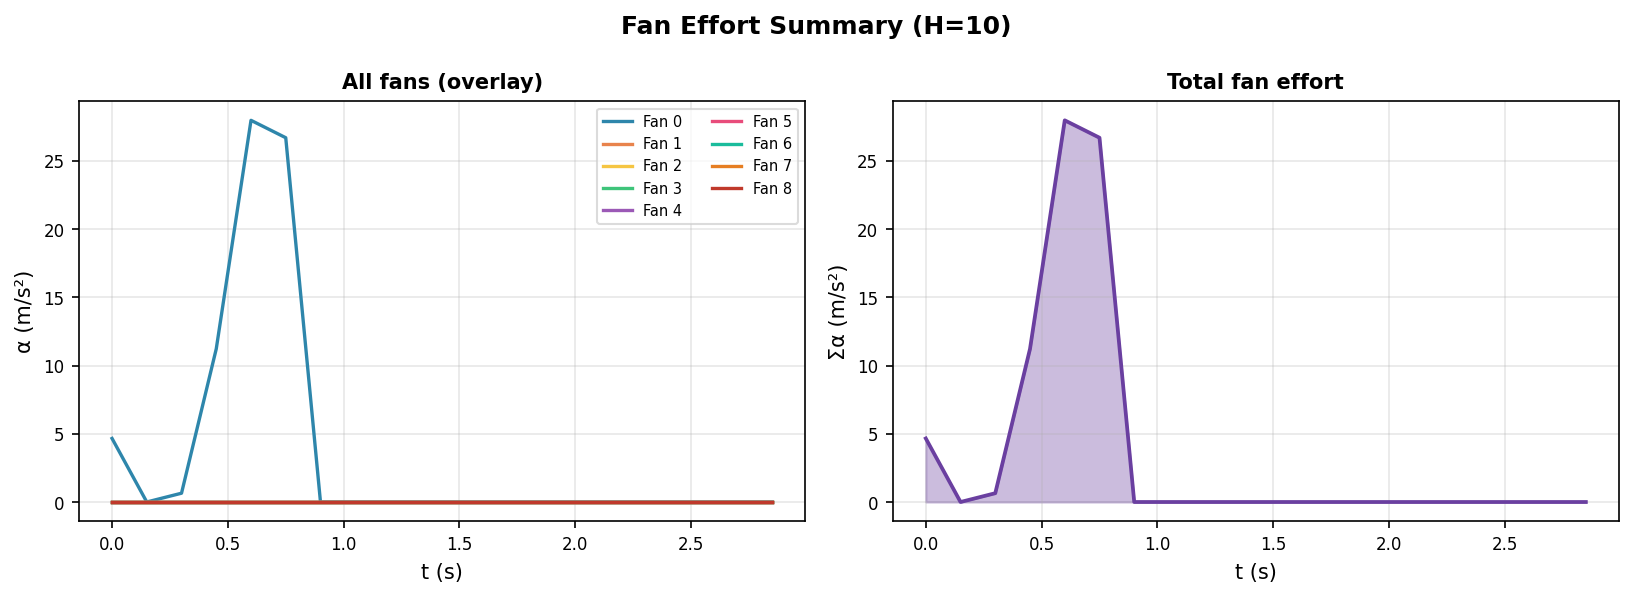
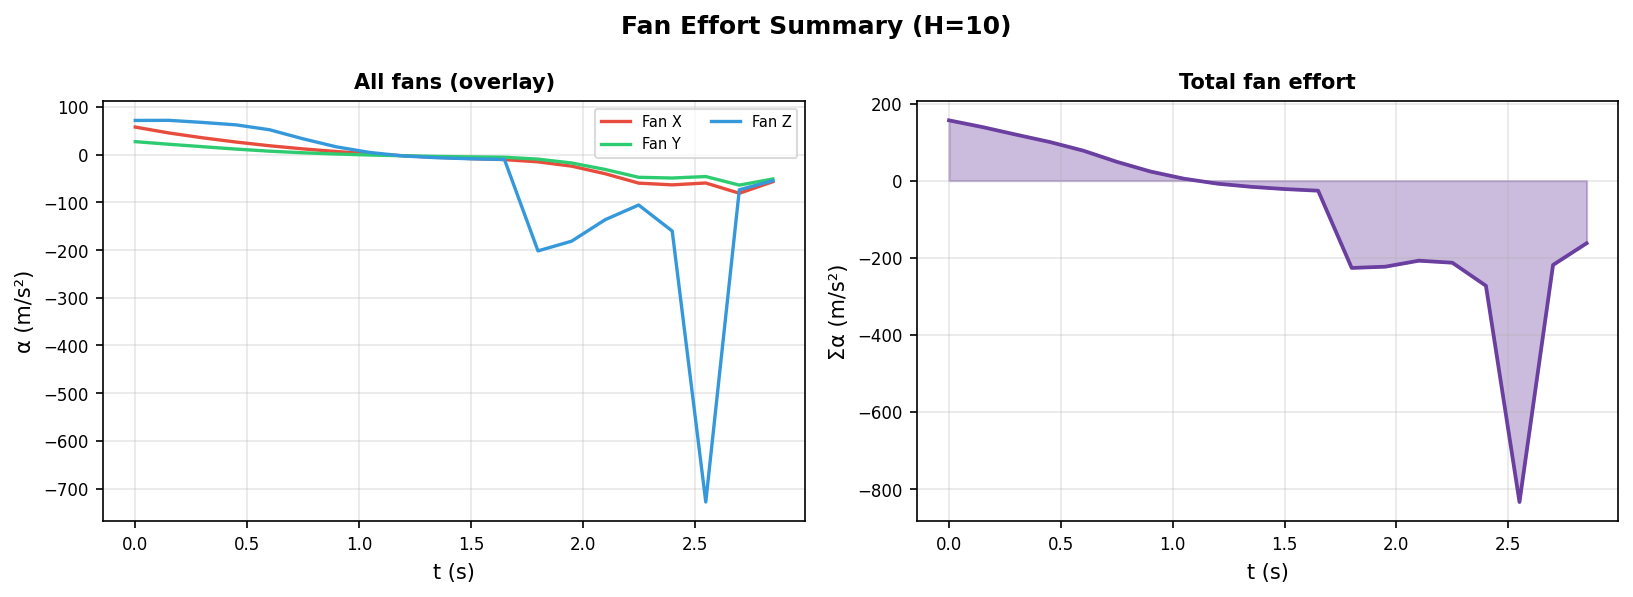
omnidirectional

diff --git a/paper-toss-variation.py b/paper-toss-variation.py
@@ -1,59 +1,40 @@
+import argparse
 import numpy as np
 import cvxpy as cp
+from level import load_level
 from visualization.viz import visualize
 
 ################################################################
-# Problem Parameters
+# CLI
 ################################################################
-
-dt = 0.15
-N  = 21           # total steps (3.0 s)
-H  = 10            # fixed MPC prediction horizon
-g  = np.array([0.0, 0.0, -9.8])
-
-r0     = np.array([0.0,  0.0,  2.0])
-v0     = np.array([3.0,  0.0,  4.5])
-r_goal = np.array([7.0, 10.0,  1.5])
-
-ALPHA_MAX = 80.0
+parser = argparse.ArgumentParser(description='Paper-toss MPC solver')
+parser.add_argument('level', help='Path to a level TOML file (e.g. levels/level1.toml)')
+args = parser.parse_args()
 
 ################################################################
-# Level Design
-# TODO: make a simple DSL for this
+# Load level
 ################################################################
-class Fan:
-    def __init__(self, bounds, direction, color, name):
-        self.bounds    = np.array(bounds, dtype=float)
-        d              = np.array(direction, dtype=float)
-        self.direction = d / np.linalg.norm(d)
-        self.color     = color
-        self.name      = name
+lv = load_level(args.level)
 
-    def contains(self, r):
-        return all(self.bounds[i, 0] <= r[i] <= self.bounds[i, 1] for i in range(3))
+N         = lv.N
+H         = lv.H
+dt        = lv.dt
+ALPHA_MAX = lv.ALPHA_MAX
+r0        = lv.r0
+v0        = lv.v0
+r_goal    = lv.r_goal
+fans      = lv.fans
+N_FANS    = len(fans)
 
-ZL, ZH = -5.0, 15.0
-
-fans = [
-    Fan([[-0.5, 2.5], [-0.5, 3.5], [ZL, ZH]], [ 0.0,  1.0,  1.0], '#2E86AB', 'Fan 0 (+y+z)'),
-    Fan([[ 2.5, 5.0], [-0.5, 3.5], [ZL, ZH]], [ 0.0,  1.0,  0.8], '#E8834C', 'Fan 1 (+y+z)'),
-    Fan([[ 5.0, 8.5], [-0.5, 3.5], [ZL, ZH]], [ 0.0,  1.0,  0.4], '#F5C542', 'Fan 2 (+y+z)'),
-    Fan([[-0.5, 2.5], [ 3.5, 7.0], [ZL, ZH]], [ 0.0,  1.0,  0.4], '#3EC47A', 'Fan 3 (+y+z)'),
-    Fan([[ 2.5, 5.0], [ 3.5, 7.0], [ZL, ZH]], [ 0.0,  1.0,  0.0], '#9B59B6', 'Fan 4 (+y)'),
-    Fan([[ 5.0, 8.5], [ 3.5, 7.0], [ZL, ZH]], [ 0.0,  1.0, -0.5], '#E84C7B', 'Fan 5 (+y−z)'),
-    Fan([[-0.5, 2.5], [ 7.0,11.5], [ZL, ZH]], [ 1.0,  0.5, -0.3], '#1ABC9C', 'Fan 6 (+x+y−z)'),
-    Fan([[ 2.5, 5.0], [ 7.0,11.5], [ZL, ZH]], [ 1.0,  0.2, -1.0], '#E67E22', 'Fan 7 (+x−z)'),
-    Fan([[ 5.0, 8.5], [ 7.0,11.5], [ZL, ZH]], [ 0.0, -0.3, -1.0], '#C0392B', 'Fan 8 (−y−z)'),
-]
-N_FANS = len(fans)
+g = np.array([0.0, 0.0, -9.8])
 
 ################################################################
-# Utils 
+# Utils
 ################################################################
 
-# returns the list of positions for `steps`time steps, representing the path taken via free 
+# returns the list of positions for `steps` time steps, representing the path taken via free
 # flight given the initial position r0 and initial velocity v0
-def simulate_free_flight(r0, v0, steps=N):
+def simulate_free_flight(r0, v0, steps):
     r = np.zeros((steps, 3))
     v = np.zeros((steps, 3))
     r[0], v[0] = r0, v0
@@ -62,13 +43,13 @@ def simulate_free_flight(r0, v0, steps=N):
         v[k+1] = v[k] + g * dt
     return r
 
-r_free = simulate_free_flight(r0, v0)
+r_free = simulate_free_flight(r0, v0, N)
 
 ################################################################
-# Main MPC Loop 
+# Main MPC Loop
 ################################################################
 
-# to kick things, we start by guessing our trajectory to be the straight line between the start 
+# to kick things, we start by guessing our trajectory to be the straight line between the start
 # position and the end goal position
 r_pred = np.linspace(r0, r_goal, N)
 
@@ -79,7 +60,7 @@ active_log = []
 pred_trajs = []
 
 print(f"MPC  fixed horizon H={H}  (N={N}, dt={dt}s, T={(N-1)*dt:.1f}s)")
-print(f"  {'k':>3}  {'horizon':>7}  {'planned err':>13}  {'actual err':>12}  {'status'}")
+print(f"  {'k':>3}  {'horizon':>7}  {'actual err':>12}  {'status'}")
 print("  " + "─" * 56)
 
 for k in range(N - 1):
@@ -96,11 +77,11 @@ for k in range(N - 1):
             if fan.contains(r_check):
                 active[j, i] = 1.0
 
-    # now that we know which fans are active for each time step in this horizon, we can setup our problem 
+    # now that we know which fans are active for each time step in this horizon, we can setup our problem
     # for the current iteration
     r_var     = cp.Variable((horizon, 3))
     v_var     = cp.Variable((horizon, 3))
-    alpha_var = cp.Variable((horizon - 1, N_FANS), nonneg=True)
+    alpha_var = cp.Variable((horizon - 1, N_FANS))
 
     # constraints!
     cons = [r_var[0] == r_k, v_var[0] == v_k]
@@ -145,9 +126,8 @@ for k in range(N - 1):
     r_actual.append(r_next)
     v_actual.append(v_next)
 
-    planned_err = float(np.linalg.norm(r_var.value[-1] - r_goal))
-    actual_err  = float(np.linalg.norm(r_next - r_goal))
-    print(f"  {k:>3}  {horizon:>7}  {planned_err:>13.4f}  {actual_err:>12.4f}  {status}")
+    err = float(np.linalg.norm(r_next - r_goal))
+    print(f"  {k:>3}  {horizon:>7}  {err:>12.4f}  {status}")
 
 r_actual   = np.array(r_actual)
 alpha_log  = np.array(alpha_log)

diff --git a/level.py b/level.py
@@ -1,0 +1,55 @@
+import numpy as np
+from dataclasses import dataclass
+
+try:
+    import tomllib
+except ImportError:
+    import tomli as tomllib
+
+
+class Fan:
+    def __init__(self, bounds, direction, color, name):
+        self.bounds    = np.array(bounds, dtype=float)
+        d              = np.array(direction, dtype=float)
+        self.direction = d / np.linalg.norm(d)
+        self.color     = color
+        self.name      = name
+
+    def contains(self, r):
+        return all(self.bounds[i, 0] <= r[i] <= self.bounds[i, 1] for i in range(3))
+
+
+@dataclass
+class Level:
+    N:         int
+    H:         int
+    dt:        float
+    ALPHA_MAX: float
+    r0:        np.ndarray
+    v0:        np.ndarray
+    r_goal:    np.ndarray
+    fans:      list
+
+
+def load_level(path: str) -> Level:
+    with open(path, 'rb') as f:
+        cfg = tomllib.load(f)
+
+    p = cfg['params']
+    s = cfg['start']
+
+    fans = [
+        Fan(fan['bounds'], fan['direction'], fan['color'], fan['name'])
+        for fan in cfg.get('fans', [])
+    ]
+
+    return Level(
+        N         = p['N'],
+        H         = p['H'],
+        dt        = p['dt'],
+        ALPHA_MAX = p['alpha_max'],
+        r0        = np.array(s['r0'],     dtype=float),
+        v0        = np.array(s['v0'],     dtype=float),
+        r_goal    = np.array(s['r_goal'], dtype=float),
+        fans      = fans,
+    )
